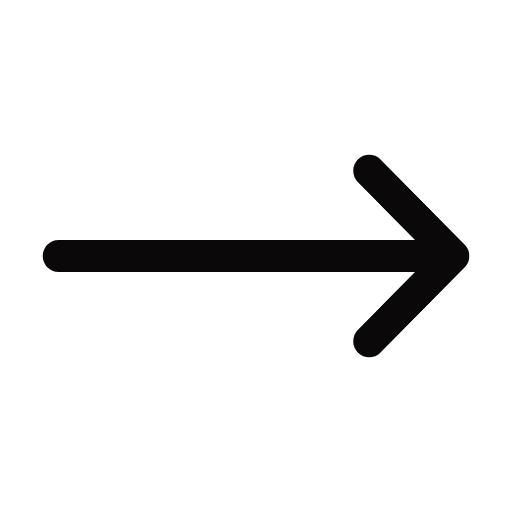
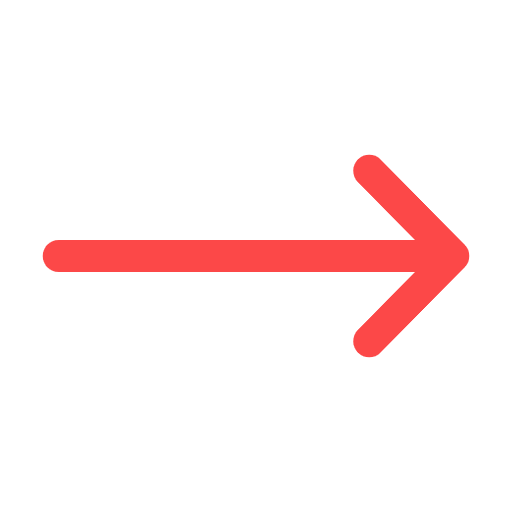
goals slideshow

Changed region(s): [[0.0625, 0.2812, 0.9375, 0.7188]]

diff --git a/index.html b/index.html
@@ -4,7 +4,7 @@
 <meta name="viewport" content="width=device-width, initial-scale=1.0">
 <meta http-equiv="X-UA-Compatible" content="ie=edge">
 <link rel="stylesheet" href="style.css">
-<script src="scripts.js"></script>
+<script src="script.js"></script>
 <title>Sunnie Kapar</title>
 
 <div class="container">
@@ -16,9 +16,9 @@
         <div class="nav-links">
             <ul>
                 <li class="navitem"> <a href="#about-container"> About </a> </li>
+                <li class="navitem"> <a href="#goals-container"> Goals </a> </li>
                 <li class="navitem"> <a href="#experience-container"> Experience </a> </li>
                 <li class="navitem"> <a href="#skills-container"> Skills </a> </li>
-                <li class="navitem"> <a href="#goals-container"> Goals </a> </li>
                 <li class="navitem"> <a href="pdfs/sunniekapar-resume.pdf" target="_blank"> Resume </a> </li>
                 <li class="navitem"> <button class="contact-button" href="#"> Contact </button> </li>
             </ul>
@@ -53,9 +53,9 @@
         <div class="content">
 
             <div id="about-container" class="about-container">
-                <h1 class="about-me-header"> About me </h1>
+                <h1 class="about-me-header content-header"> About me </h1>
                 <div class="about-intro">
-                    <p class="about-paragraph1">
+                    <p class="about-paragraph1 body-font">
                         lorem ipsum dolor sit amet consectetur adipiscing elit potenti mattis quis neque sed senectus
                         suspendisse erat habitasse ultricies nulla tristique in urna ridiculus enim sapien nascetur
                         congue blandit et pulvinar nisi habitant purus fames tellus lorem ipsum dolor sit amet
@@ -71,7 +71,7 @@
                     </p>
                     <img src="images/about-image.JPG" class="about-me-image">
                 </div>
-                <div class="about-paragraph2">
+                <div class="about-paragraph2 body-font" >
                     lorem ipsum dolor sit amet consectetur adipiscing elit id mauris hac rutrum leo iaculis
                     interdum nec cubilia taciti vestibulum habitant quis eleifend nam tincidunt gravida blandit
                     facilisis quam lacinia metus etiam semper platea tristique parturient proin risus nisi
@@ -82,13 +82,42 @@
                     aliquet sollicitudin varius commodo augue netus curabitur nunc vitae justo eros condimentum
                 </div>
             </div>
-
+            <div id="goals-container" class="goals-container">
+                <h1 class="goals-header content-header"> Goals </h1>
+                <div class="goals-content card">
+                    <div class="goals-slides slide-animation" style="display: flex !important">
+                        <h1> #1: </h1>
+                        <p class="body-font"> lorem ipsum dolor sit amet consectetur adipiscing elit id mauris hac rutrum leo iaculis
+                            interdum nec cubilia taciti vestibulum habitant quis eleifend nam tincidunt gravida blandit
+                            facilisis quam lacinia metus etiam semper platea tristique parturient proin risus nisi
+                            maximus pharetra potenti felis suscipit sodales ornare imperdiet natoque eu litora vel dui </p>
+                    </div>
+    
+                    <div class="goals-slides slide-animation">
+                        <h1> #2: </h1>
+                        <p class="body-font"> lorem ipsum dolor sit amet consectetur adipiscing elit id mauris hac rutrum leo iaculis
+                            interdum nec cubilia taciti vestibulum habitant quis eleifend nam tincidunt gravida blandit
+                            facilisis quam lacinia metus etiam semper platea tristique parturient proin risus nisi
+                            maximus pharetra potenti felis suscipit sodales ornare imperdiet natoque eu litora vel dui </p>
+                    </div>
+    
+                    <div class="goals-slides slide-animation">
+                        <h1> #3: </h1>
+                        <p class="body-font"> lorem ipsum dolor sit amet consectetur adipiscing elit id mauris hac rutrum leo iaculis
+                            interdum nec cubilia taciti vestibulum habitant quis eleifend nam tincidunt gravida blandit
+                            facilisis quam lacinia metus etiam semper platea tristique parturient proin risus nisi
+                            maximus pharetra potenti felis suscipit sodales ornare imperdiet natoque eu litora vel dui </p>
+                    </div>
+                    <button class="slide-button slide-button-left" onclick="changeSlide(-1)">&#10094;</button>
+                    <button class="slide-button slide-button-right" onclick="changeSlide(1)">&#10095;</button>
+                </div>      
+            </div>
             <div id="experience-container" class="experience-container">
-                <h1 class="experience-header"> Experience </h1>
+                <h1 class="experience-header content-header"> Experience </h1>
             </div>
 
-            <div id="skills-container" clsas="skills-container">
-                <h1 class="skills-header"> Skills </h1>
+            <div id="skills-container" class="skills-container">
+                <h1 class="skills-header content-header"> Skills </h1>
                 <div class="skills">
                     <div class="skills-content">
                         <button class="skills-content-front">
@@ -97,7 +126,7 @@
                             <img src="images/arrow.png" class="skills-arrow">
                         </button>
                         <div class="skills-content-back">
-                                <p class="skills-description"> Description </p>
+                            <p class="skills-description body-font"> Description </p>
                         </div>
                     </div>
                     <div class="skills-content">
@@ -107,7 +136,7 @@
                             <img src="images/arrow.png" class="skills-arrow">
                         </button>
                         <div class="skills-content-back">
-                            <p class="skills-description"> Description </p>
+                            <p class="skills-description body-font"> Description </p>
                         </div>
                     </div>
                     <div class="skills-content">
@@ -117,7 +146,7 @@
                             <img src="images/arrow.png" class="skills-arrow">
                         </button>
                         <div class="skills-content-back">
-                            <p class="skills-description"> Description </p>
+                            <p class="skills-description body-font"> Description </p>
                         </div>
                     </div>
                     <div class="skills-content">
@@ -127,7 +156,7 @@
                             <img src="images/arrow.png" class="skills-arrow">
                         </button>
                         <div class="skills-content-back">
-                            <p class="skills-description"> Description </p>
+                            <p class="skills-description body-font"> Description </p>
                         </div>
                     </div>
                     <div class="skills-content">
@@ -137,25 +166,23 @@
                             <img src="images/arrow.png" class="skills-arrow">
                         </button>
                         <div class="skills-content-back">
-                            <p class="skills-description"> Description </p>
+                            <p class="skills-description body-font"> Description </p>
                         </div>
                     </div>
                     <div class="skills-content">
                         <button class="skills-content-front">
                             <img src="images/adaptibility-skill.png" class="skills-icon">
                             <h3> Adaptibility </h3>
-                            <img src="images/arrow.png" class="skills-arrow">                
+                            <img src="images/arrow.png" class="skills-arrow">
                         </button>
                         <div class="skills-content-back">
-                            <p class="skills-description"> Description </p>
+                            <p class="skills-description body-font"> Description </p>
                         </div>
                     </div>
                 </div>
             </div>
 
-            <div id="goals-container" class="goals-container">
-                <h1 class="goals-header"> Goals </h1>
-            </div>
+            
         </div>
 
     </div>

diff --git a/style.css b/style.css
@@ -6,7 +6,7 @@
     --font-color-unfocus: #666666;
     --font-color-dark: #333333;
     --font-color-light: #F5F5F5;
-    --accent-color: #0b0d0f;
+    --accent-color: #FD4949;
     --header-color: #fbf9f7;
     --background-color: #F5F5F5;
     --background-color-light: #FCFCFC;
@@ -31,6 +31,15 @@ html {
 body {
     background-color: var(--background-color-light);
 
+}
+
+.body-font {
+    font-size: var(--body-font-size);
+}
+
+.content-header {
+    font-size: var(--content-header-font-size);
+    color: var(--color-dark);
 }
 
 .container {
@@ -233,7 +242,7 @@ button:hover {
         all: unset;
         padding: .03rem;
         z-index: -2;
-        background-image: linear-gradient(to right, transparent 50%, rgba(0, 0, 0, 0.08) 50%);
+        background-image: linear-gradient(to right, transparent 50%, #FD4949CF 50%);
         background-size: 200%;
         transition: background-position 0.5s ease-in-out;
     }
@@ -401,7 +410,7 @@ button:hover {
 .contact-button-light {
     all: unset;
     color: var(--font-color-light);
-    border: 2px solid var(--background-color);
+    border: 2px solid var(--accent-color);
     border-radius: 10rem;
     padding: 1.5rem 3rem;
     transition-duration: 0.5s;
@@ -410,9 +419,9 @@ button:hover {
 }
 
 .contact-button-light:hover {
-    background: var(--font-color-light);
-    color: var(--color-dark);
-    box-shadow: 0 4px 8px 0 rgba(245, 245, 245, 0.2);
+    background: var(--accent-color);
+    color: var(--font-color-light);
+    box-shadow: 0 4px 8px 0 #FD49498F;
 }
 
 .logo-light a {
@@ -459,7 +468,6 @@ button:hover {
 
 
 .about-container {
-    font-size: var(--body-font-size);
     line-height: 2rem;
     font-weight: lighter;
     text-align: justify;
@@ -474,9 +482,11 @@ button:hover {
 
 .skills-icon {
     max-width: 20%;
+
 }
 
-.skills>div {
+.skills>div,
+.card {
     background-color: var(--background-color);
     border-radius: 1rem;
     display: flex;
@@ -485,8 +495,12 @@ button:hover {
     align-content: center;
     justify-content: center;
     text-align: center;
-    padding: 3rem 1rem;
-    transition-duration: 0.5s;
+    padding: 2rem 1rem;
+}
+
+.skills-content button img,
+.skills-content button h3 {
+    margin: 2rem 0 0 0;
 }
 
 .skills-description {
@@ -495,18 +509,19 @@ button:hover {
 
 .skills-header {
     text-align: center;
-    font-size: var(--content-header-font-size);
     padding: 3rem;
 }
 
-.skills>div:hover {
+.skills-content:hover {
     box-shadow: 0 4px 8px 0 rgba(0, 0, 0, 0.1);
 }
 
+.skills>div:hover .skills-arrow {
+    opacity: 1;
+}
 
-/* This container is needed to position the front and back side */
 .skills-content {
-    transition: transform 0.5s;
+    transition-duration: 0.5s;
     transform-style: preserve-3d;
 }
 
@@ -519,7 +534,7 @@ button:hover {
 .skills-content-back {
     -webkit-backface-visibility: hidden;
     backface-visibility: hidden;
-    border:none;
+    border: none;
     background-color: transparent;
 }
 
@@ -530,4 +545,73 @@ button:hover {
 
 .skills-arrow {
     max-width: 10%;
+    opacity: 0.5;
+    transition-duration: 0.5s;
+}
+
+/*                 */
+.goals-content {
+    position: relative;
+    display: flex;
+    align-content: center;
+    justify-content: center;
+    margin: 0 20%;
+}
+
+.goals-container>h1 {
+    padding: 2rem;
+    text-align: center;
+}
+
+.goals-slides {
+    display: none;
+    width: 50%;
+    flex-direction: column;
+    align-content: center;
+    text-align: center;
+    gap: 3rem;
+    padding: 2rem 0;
+   
+}
+
+.slide-animation {
+    animation: opac 0.8s;
+    animation-duration: 0.8s;
+    animation-timing-function: ease;
+    animation-delay: 0s;
+    animation-iteration-count: 1;
+    animation-direction: normal;
+    animation-fill-mode: none;
+    animation-play-state: running;
+    animation-name: opac;
+}
+
+.slide-button-right,
+.slide-button-left {
+    all: unset;
+    position: absolute;
+    top: 50%;
+    font-size: var(--subheader-font-size);
+    color: var(--accent-color);
+    opacity: 0.5;
+    cursor: pointer;
+    transition-duration: 0.3s;
+}
+
+.slide-button-right:hover,
+.slide-button-left:hover {
+    color: var(--accent-color);
+    opacity: 1;
+}
+
+.slide-button-left {
+    transform: translate(0%, -50%);
+    -ms-transform: translate(-0%, -50%);
+    left: 12.5%;
+}
+
+.slide-button-right {
+    transform: translate(0%, -50%);
+    -ms-transform: translate(0%, -50%);
+    right: 12.5%;
 }

diff --git a/script.js b/script.js
@@ -1,0 +1,17 @@
+var slideIndex = 1;
+showSlide(slideIndex);
+
+function changeSlide(n) {
+    showSlide(slideIndex += n)
+}
+
+function showSlide(n) {
+    var i;
+    var x = document.getElementsByClassName("goals-slides");
+    if(n > x.length) {slideIndex=1}
+    if(n<1) {slideIndex = x.length}
+    for(i = 0; i < x.length; i++) {
+        x[i].style.display = "none";
+    }
+    x[slideIndex-1].style.display = "flex";
+}
